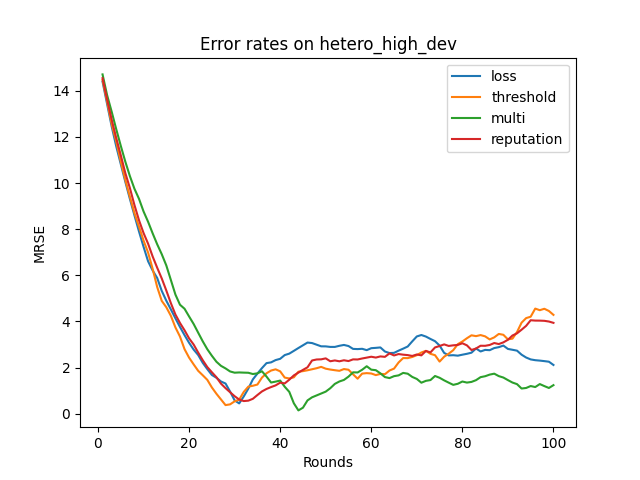
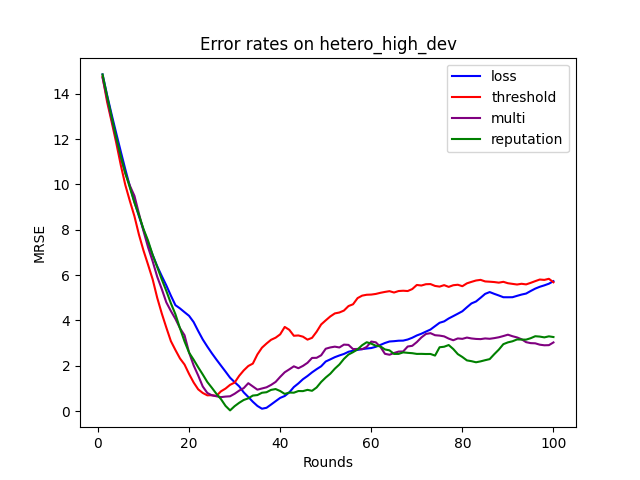
major bug fix on loss based cs: selection was reversed

diff --git a/plot/plotter.py b/plot/plotter.py
@@ -28,13 +28,22 @@ def plot_graphs():
             data = json.load(f)
             dict_list.append(data)
 
+    # define the colors of cs algorithms
+    cs_algo_colors = {
+        "loss": "blue",
+        "threshold": "red",
+        "reputation": "green",
+        "multi": "purple"
+    }
+
     # go through the dict list, get the MSRE plots
     for data_type in exp_data_types:
         x_vals = get_x_vals(dict_list[0])
         for result_dict in dict_list:
             if result_dict["params"]["dataset_type"] == data_type:
                 y_vals = get_y_vals(result_dict, validation_dataset)
-                plt.plot(x_vals, y_vals, label=result_dict["params"]["cs_algo"])
+                algo = result_dict["params"]["cs_algo"]
+                plt.plot(x_vals, y_vals, label=algo, color=cs_algo_colors[algo])
         plt.title(f"Error rates on {data_type}")
         plt.xlabel("Rounds")
         plt.ylabel("MRSE")
@@ -52,7 +61,8 @@ def plot_graphs():
                     result_dict["params"]["dataset_type"] == "homo_low_dev":
                 time = calculate_total_time(result_dict, x_val)
                 y_vals.append(time)
-    plt.bar(x_vals, y_vals)
+    colors = [cs_algo_colors[algo] for algo in x_vals]
+    plt.bar(x_vals, y_vals, color=colors)
     plt.title("Total time of training")
     plt.xlabel("Seconds")
     plt.ylabel("CS Algorithm")

diff --git a/fl_simulator/client_selection_algorithms/loss_value_based/loss_value_based_server.py b/fl_simulator/client_selection_algorithms/loss_value_based/loss_value_based_server.py
@@ -25,7 +25,7 @@ async def request_updates(server):
     # Sort clients by loss (assuming result contains loss value)
     # Higher loss is better, so we sort in ascending order
     sorted_clients = sorted(all_updates.keys(), 
-                        key=lambda client: all_updates[client][2])  # third att of result is loss
+                        key=lambda client: all_updates[client][2], reverse=True)  # third att of result is loss
     
     # Select only the top server.no_of_clients clients
     selected_clients = sorted_clients[:min(server.no_of_clients, len(sorted_clients))]

diff --git a/managers/run_experiment.py b/managers/run_experiment.py
@@ -3,7 +3,7 @@
 # The line we want to reach is 2x+5
 
 # SET THE SEED OF THE EXPERIMENT HERE
-seed = 3
+seed = 2
 
 import random
 import numpy
@@ -87,7 +87,7 @@ async def run_exp(experiment_type=None, experiment_CS_algo=None):
     # number of clients to be picked each round
     # Redundant for some of the CS algorihms, such as threshold based CS
     # Total number of clients is 15
-    no_of_cln = 10
+    no_of_cln = 8
 
 
     # Time limit that clients are allowed to compute their updates in
